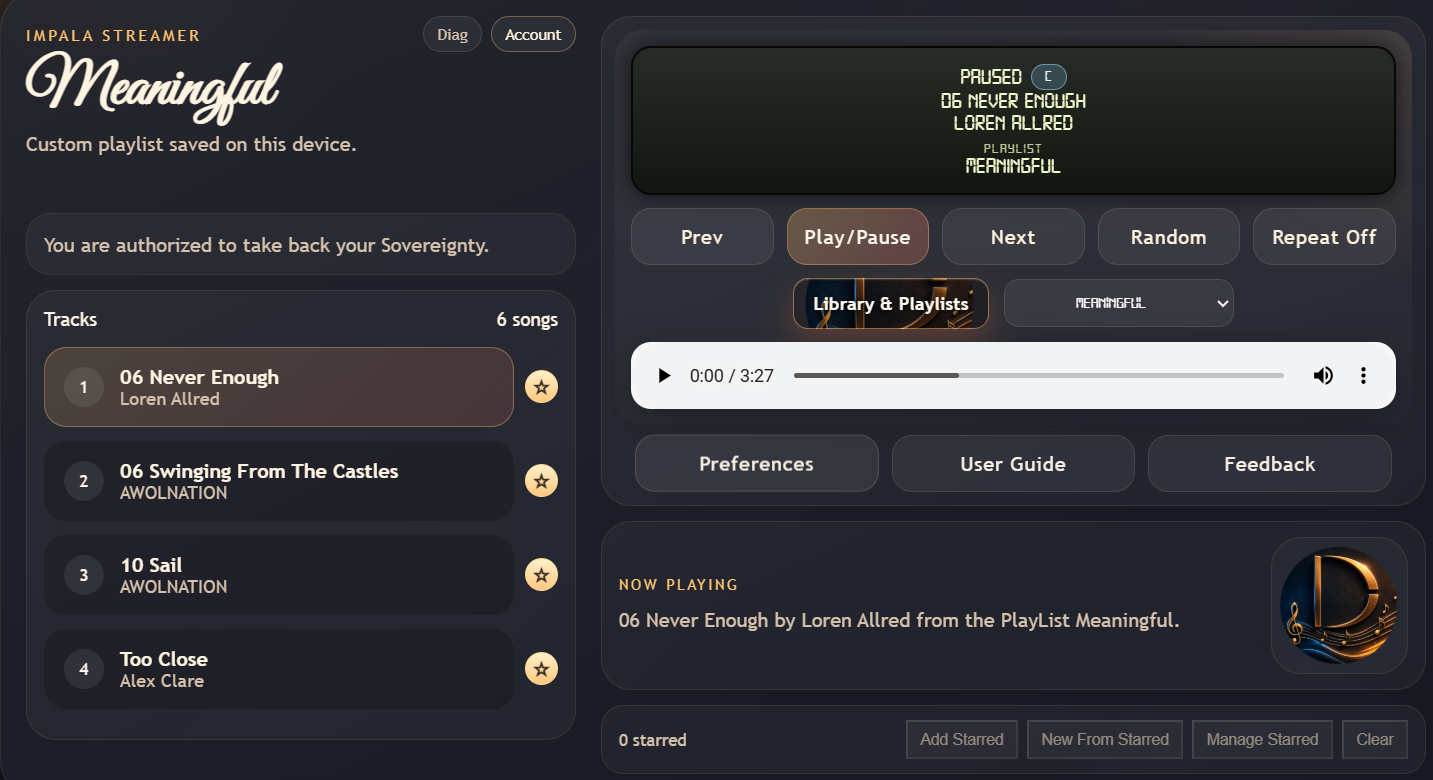
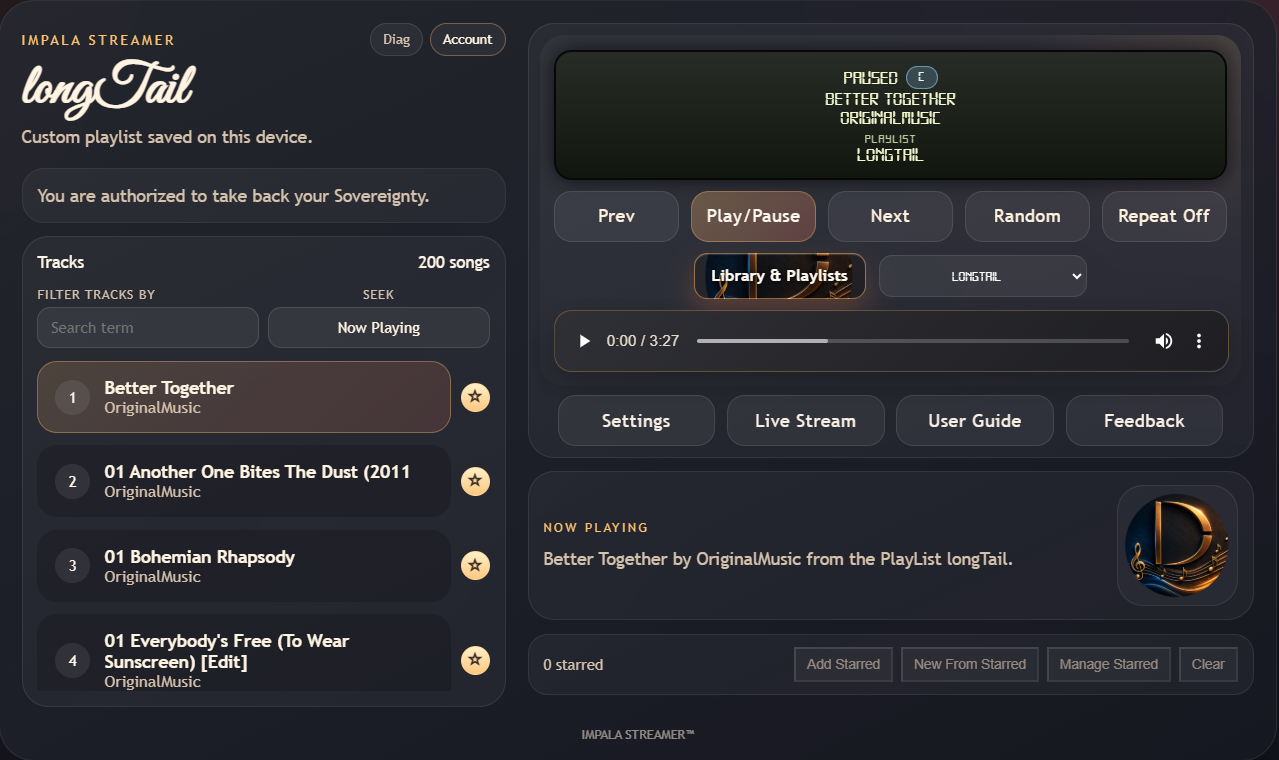
Refactor code structure for improved readability and maintainability

diff --git a/productPage.html b/productPage.html
@@ -84,10 +84,15 @@
                 tracking, or algorithmic noise. Designed for everyday listening: walking, working, or streaming at home.
               </p>
               <img src="public/images/impalaInterface.png" class="impala-interface" alt="Impala Streamer Interface" />
+              <img src="public/images/impalaLibrary.png" class="impala-interface"
+                alt="Impala Streamer Library Interface" />
+              <img src="public/images/impalaLiveStream.png" class="impala-interface"
+                alt="Impala Streamer Live Stream Interface" />
 
             </div>
 
             <div class="pillars">
+              <div class="spacer"></div>
               <div class="pillar">
                 <h3>Built For Real Use</h3>
                 <ul>
@@ -101,6 +106,7 @@
                   <li>Diagnostics for multi‑day uptime and stability</li>
                 </ul>
               </div>
+              <div class="spacer"></div>
               <div class="pillar">
                 <h3>Sovereign by Design</h3>
                 <ul>
@@ -110,11 +116,50 @@
 
                 </ul>
               </div>
+              <div class="spacer"></div>
               <div class="pillar">
                 <h3>Current Status</h3>
                 <p>
                   Entered pilot testing on June 23, 2026.
                 </p>
+              </div>
+              <div class="spacer"></div>
+              <div class="pillar">
+                <h3>The Core (Engine)</h3>
+                <p>Impala Streamer uses the browser's native HTML5 media engine through standard &lt;audio&gt; and
+                  &lt;video&gt;
+                  elements. For HLS/live streams, it uses browser-native HLS where available and hls.js where needed.
+                  It does not use mpv, GStreamer, or FFmpeg as the playback engine.</p>
+              </div>
+              <div class="spacer"></div>
+              <div class="pillar">
+                <h3>Current Capabilities</h3>
+                <p>Impala currently supports MP3, MP4, and FLAC playback. Local files can be served through the optional
+                  Impala Local Library Companion, which runs on the user's computer and provides an indexed music/video
+                  folder
+                  or USB attached drive to the web app. Impala also plays private cloud-hosted S4 media through signed
+                  URLs,
+                  playlists, and live/webcast streams. Direct stream URLs are supported through the Live Stream control
+                  surface
+                  when live streaming is enabled, though “paste any URL and play” is not the primary workflow.
+                  Additional features
+                  can be added over time, all optional. The modular architecture allows expansion without affecting the
+                  core
+                  experience.</p>
+              </div>
+              <div class="spacer"></div>
+              <div class="pillar">
+                <h3>Interface</h3>
+                <ul>
+                  <li>No accounts. No analytics. No ads. No subscriptions. No tracking.</li>
+                  <li>Original concept and ownership restored. Works the same every time — no profiling, no surprises.
+                  </li>
+                  <li>Once purchased, it is owned permanently. No recurring fees.</li>
+                  <li>Future features will be delivered as optional microservices that never alter or interfere with the
+                    core
+                    interface or playback experience.</li>
+
+                </ul>
               </div>
             </div>
           </div>

diff --git a/style.css b/style.css
@@ -1553,3 +1553,8 @@
     transform: translateY(0) scale(.99);
     box-shadow: 0 10px 20px rgba(11, 19, 32, .18), inset 0 1px 0 rgba(255, 255, 255, .12);
   }
+
+
+  .spacer {
+    margin-bottom:25px;
+  }
